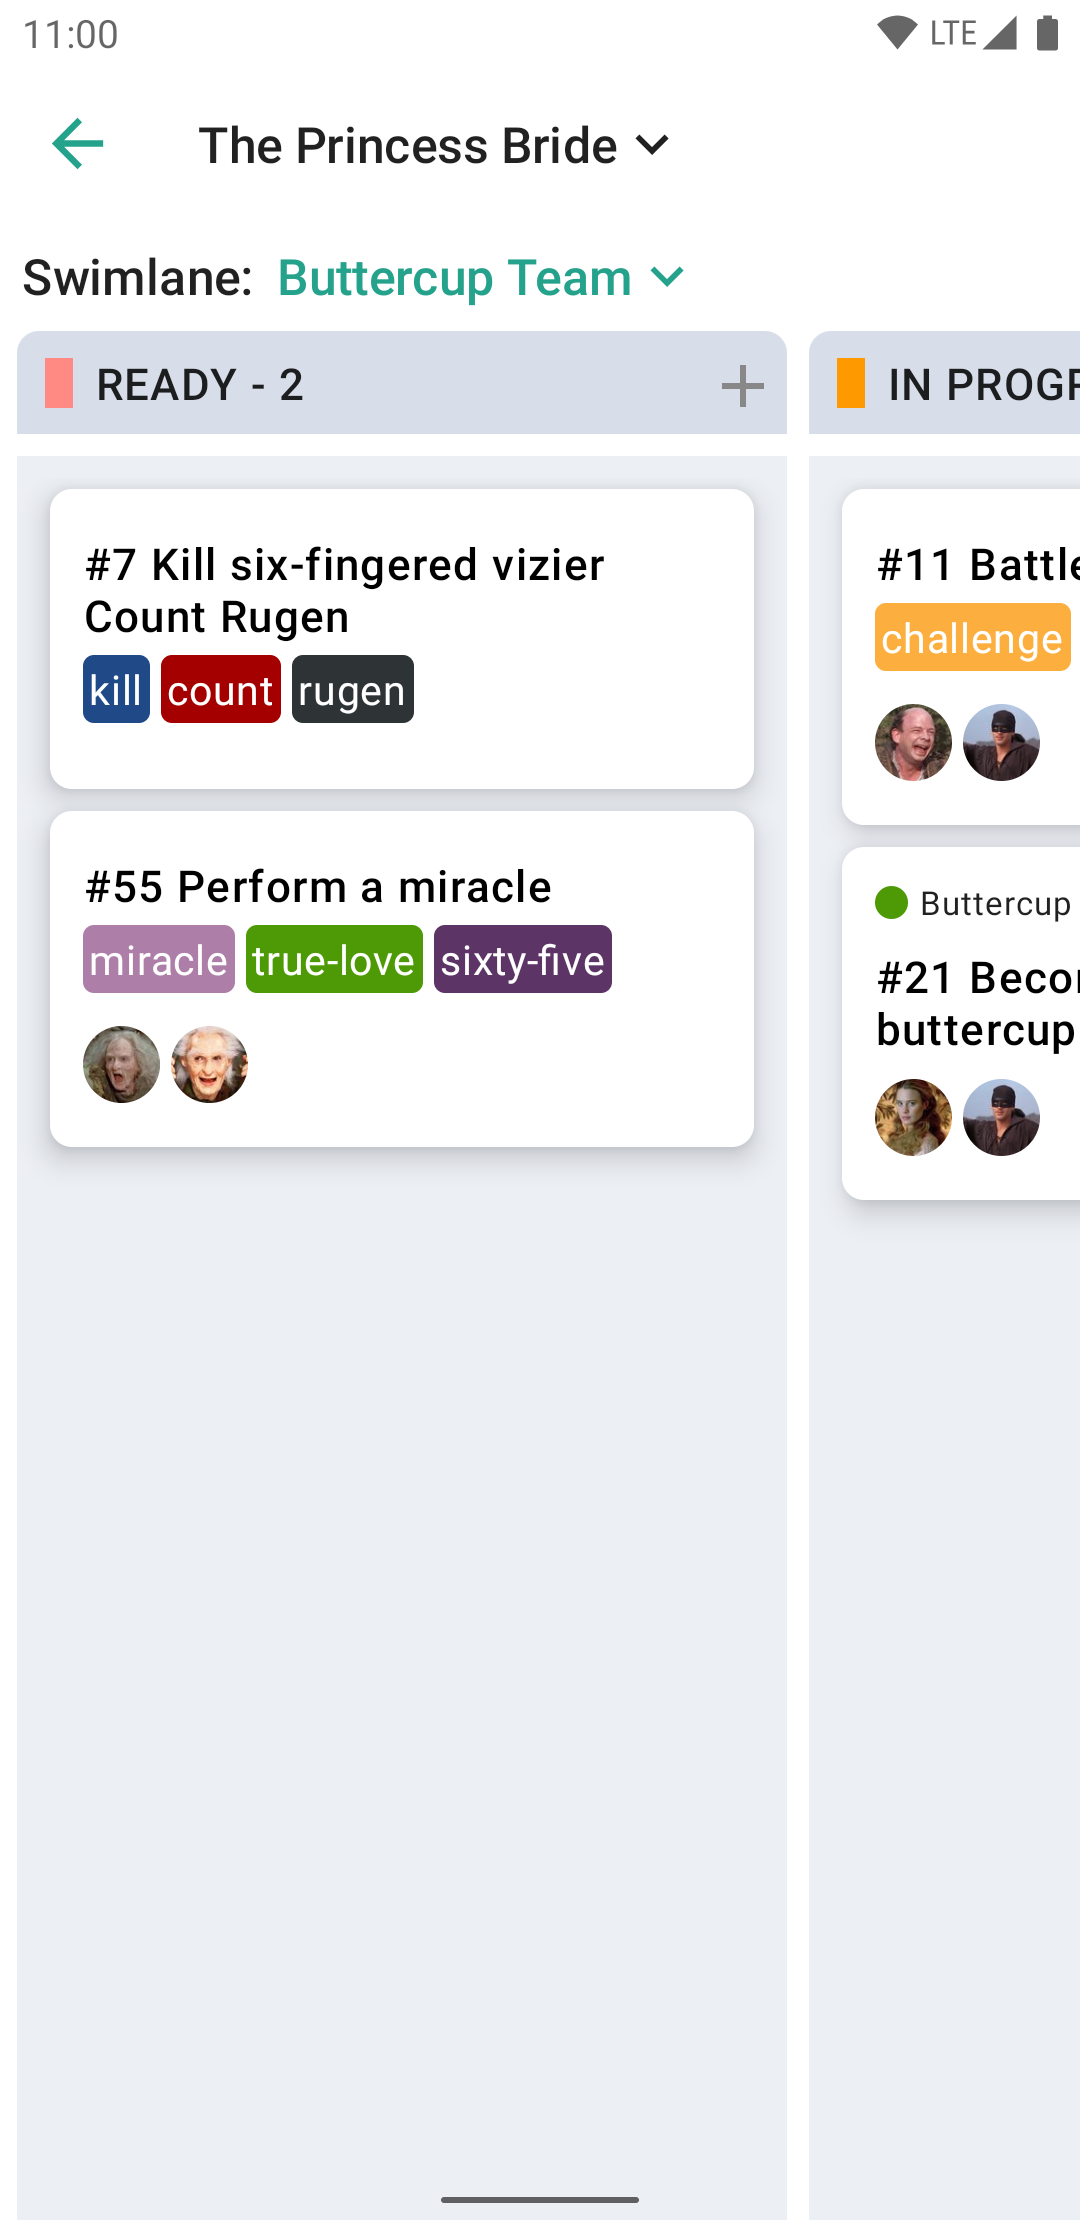
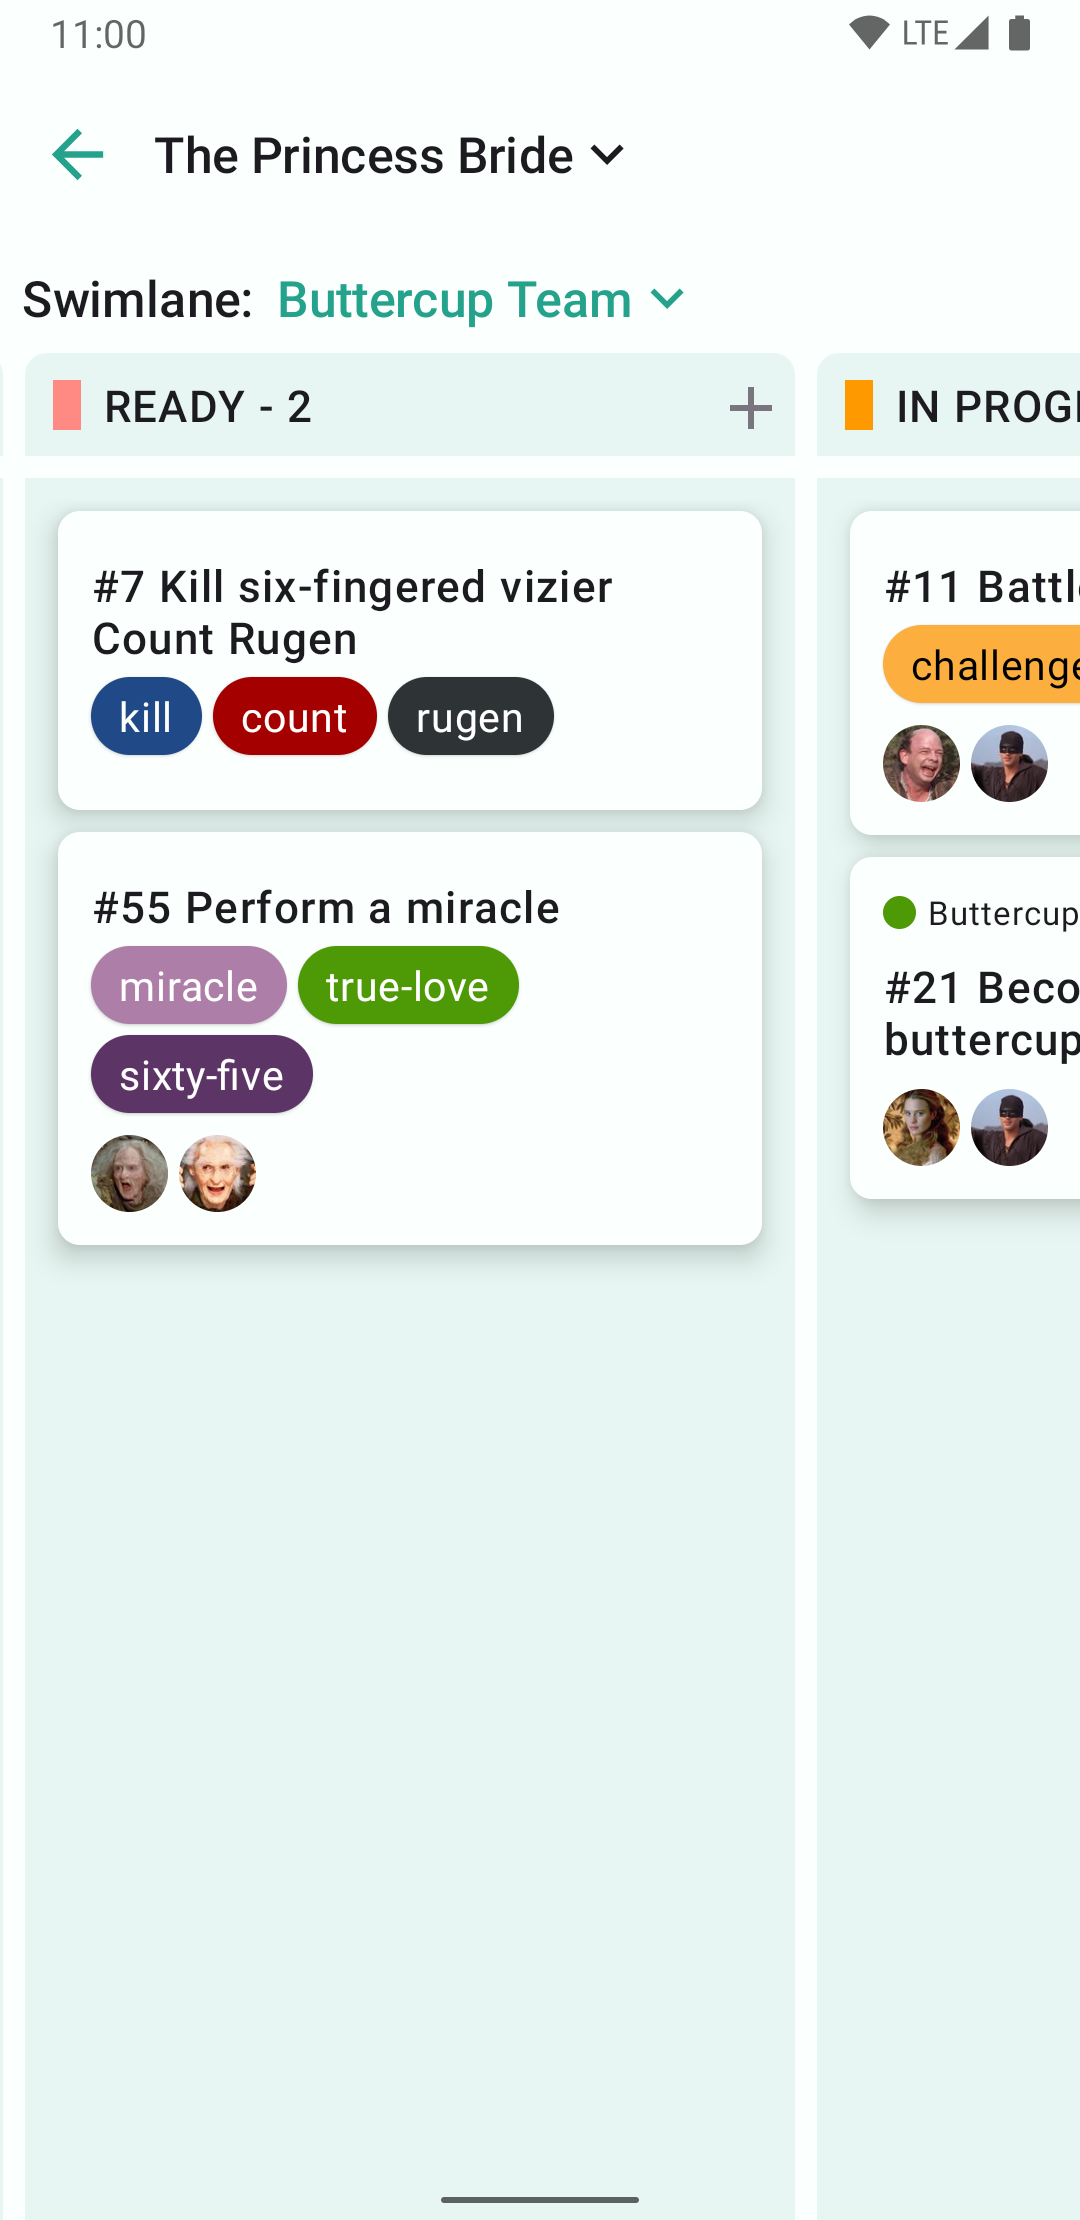
Prepare new release
Bump version, update README and screenshots

diff --git a/README.md b/README.md
@@ -1,9 +1,10 @@
 # TaigaMobile  
 <a href='https://play.google.com/store/apps/details?id=io.eugenethedev.taigamobile&utm_source=github'><img alt='Get it on Google Play' src='https://play.google.com/intl/en_us/badges/static/images/badges/en_badge_web_generic.png' width=300/></a>  
 
-This is **unofficial** android app for [taiga.io](https://www.taiga.io/) (agile project management system) built with [Jetpack Compose](https://developer.android.com/jetpack/compose) (brand new UI toolkit from Google). Project is still under development, so new features will be added in future.  
+This is **unofficial** android app for [taiga.io](https://www.taiga.io/) (agile project management system) built with [Jetpack Compose](https://developer.android.com/jetpack/compose) and featuring Material You with dynamic colors. Project is still under development, so new features will be added in future.  
   
-<img src="screenshots/login.png" width=300/> <img src="screenshots/login_dark.png" width=300/>
+<img src="screenshots/m3_1.png" width=200/> <img src="screenshots/m3_2.png" width=200/>
+<img src="screenshots/m3_3.png" width=200/> <img src="screenshots/m3_4.png" width=200/>
 
 ## Features
 * View:
@@ -25,10 +26,7 @@ This is **unofficial** android app for [taiga.io](https://www.taiga.io/) (agile 
 * Filters for user stories, epics, issues
 
 ## Some screens
-How app looks (dark theme supported)  
-  
-<img src="screenshots/scrum.png" width=300/> <img src="screenshots/scrum_dark.png" width=300/>   
-<img src="screenshots/kanban.png" width=300/> <img src="screenshots/kanban_dark.png" width=300/>  
+<img src="screenshots/login.png" width=300/> <img src="screenshots/login_dark.png" width=300/> 
 <img src="screenshots/story.png" width=300/> <img src="screenshots/story_dark.png" width=300/>   
 <img src="screenshots/sprint.png" width=300/> <img src="screenshots/sprint_dark.png" width=300/>    
 
@@ -47,7 +45,4 @@ Probably sucks. I'm not very good at designing UI, but I'm doing my best. So, if
 Check out app on [Google Play](https://play.google.com/store/apps/details?id=io.eugenethedev.taigamobile&utm_source=github) or go to [Releases](https://github.com/EugeneTheDev/TaigaMobile/releases) page to download apk.
 
 ## Issues
-Please consider telling about problems or suggestions on [Issues](https://github.com/EugeneTheDev/TaigaMobile/issues) page  
-
-## Links
-[Project on Taiga](https://tree.taiga.io/project/eugenethedev-taiga-mobile)
+Please consider telling about problems or suggestions on [Issues](https://github.com/EugeneTheDev/TaigaMobile/issues) page.
